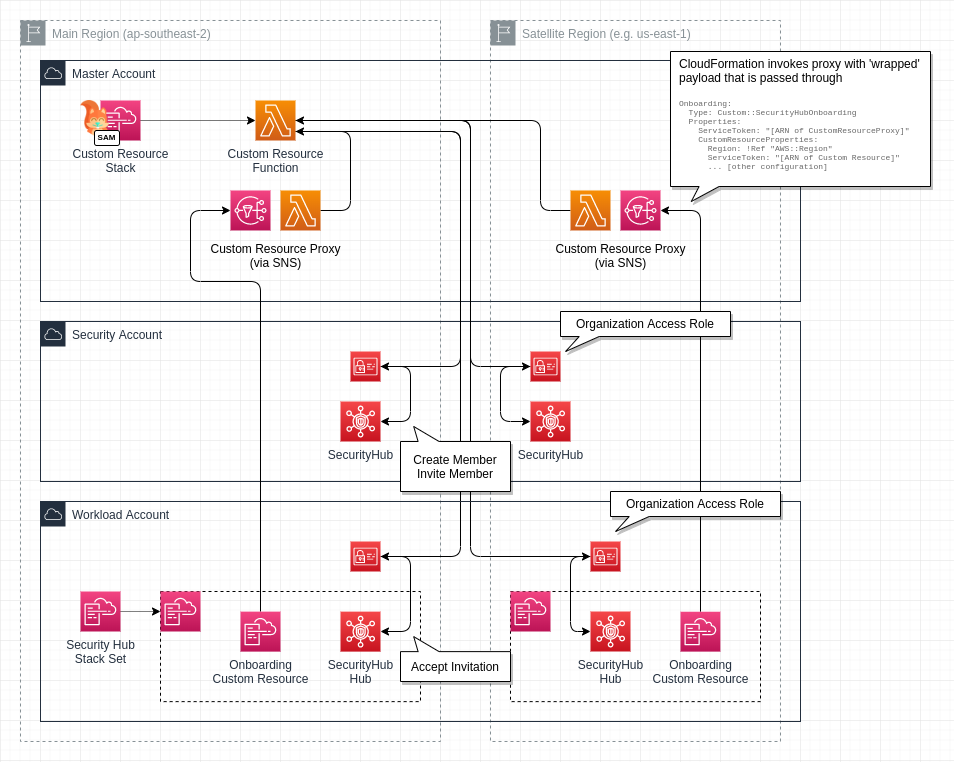
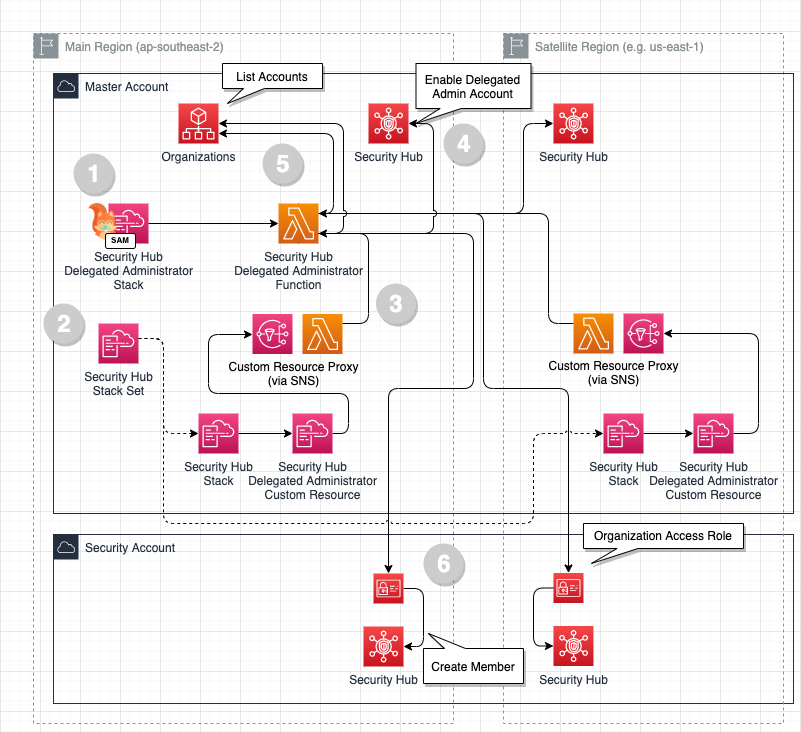
#18 Update documentation for Security Hub

diff --git a/docs/Features.md b/docs/Features.md
@@ -40,13 +40,10 @@
 
 ## AWS SecurityHub
 
-- SecurityHub Hub deployed across Organization accounts and regions via Stack Set in `Core` account (and Stack Set for `Core` account directly)
-- SecurityHub Hub deployed directly across `Security` account regions via Stack Set in `Security` account
-- Onboarding of Hubs in all accounts as members of `Security` account Hub via SAM Custom Resource in `Core` account
+- SecurityHub Hub deployed across Organization accounts and regions via Stack Set in `Core` account
+- Custom Resource registers `Security` account as Delegated Administrator for Security Hub and handles registering existing accounts as members
 
 ![SecurityHub Architecture](./SecurityHub.png)
-
-![SecurityHub Stacks](./SecurityHubStacks.png)
 
 ## Federated Identify with AWS SSO
 
